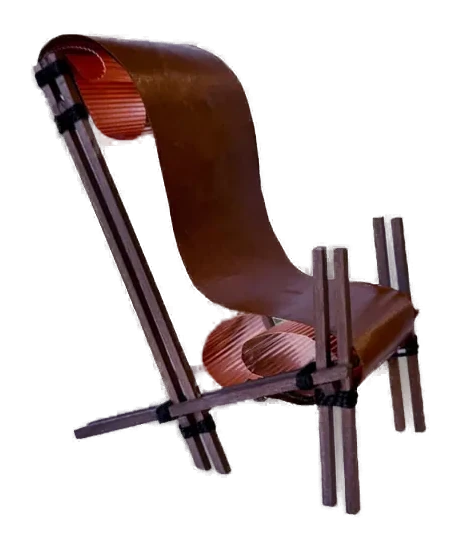
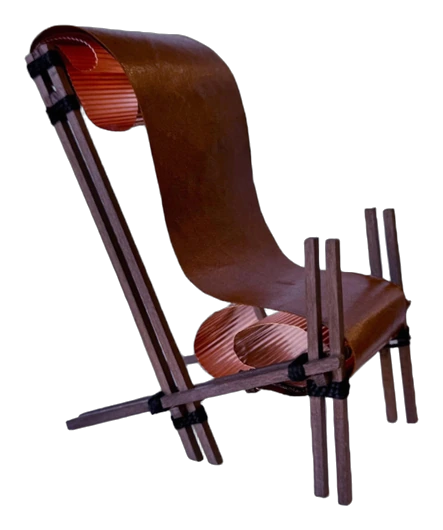
Chaise redétourée proprement, planche des textures détourée et adoucie
Claude-Session: https://claude.ai/code/session_013PfFhaaiQTpQb93kGRB6QJ

diff --git a/l1s2/index.html b/l1s2/index.html
@@ -50,7 +50,7 @@
 	</div>
 	<section class="p-text"><span class="label">Expérimentation</span><div class="body reveal"><p class="lead">Avant le travail architectural, une première expérimentation a été menée autour de la relation entre deux matières à travers la réalisation d’un objet de mobilier : une chaise.</p><p>Ce travail m’a permis d’explorer les notions d’assemblage, de structure et de matérialité. Cette première approche a servi de base au développement du projet architectural.</p></div></section>
 	<div class="gallery">
-		<figure class="c12 showcase reveal"><img src="../assets/img/serre-chaise.webp" alt="La serre habitée — chaise, première expérimentation" width="461" height="548" loading="lazy" decoding="async" data-full="../assets/img/serre-chaise.webp"><figcaption>La chaise — première expérimentation</figcaption></figure>
+		<figure class="c12 showcase reveal"><img src="../assets/img/serre-chaise.webp" alt="La serre habitée — chaise, première expérimentation" width="443" height="530" loading="lazy" decoding="async" data-full="../assets/img/serre-chaise.webp"><figcaption>La chaise — première expérimentation</figcaption></figure>
 	</div>
 	<p class="p-credit">Projet réalisé en première année de licence à l’École Spéciale d’Architecture — 2025.</p>
 </div>

diff --git a/divers/index.html b/divers/index.html
@@ -68,7 +68,7 @@
 			</div>
 		</div>
 		<div class="gallery">
-			<figure class="c12 showcase reveal"><img src="../assets/img/divers-textures.webp" srcset="../assets/img/divers-textures-900.webp 900w, ../assets/img/divers-textures.webp 1445w" sizes="(max-width: 760px) 90vw, 700px" alt="Projets divers — empreintes à l’encre et textures en poterie" width="1445" height="1810" loading="lazy" decoding="async" data-full="../assets/img/divers-textures.webp"><figcaption>Photographie · encre · poterie</figcaption></figure>
+			<figure class="c12 showcase clear reveal"><img src="../assets/img/divers-textures.webp" srcset="../assets/img/divers-textures-900.webp 900w, ../assets/img/divers-textures.webp 1378w" sizes="(max-width: 760px) 90vw, 700px" alt="Projets divers — empreintes à l’encre et textures en poterie" width="1378" height="1742" loading="lazy" decoding="async" data-full="../assets/img/divers-textures.webp"><figcaption>Photographie · encre · poterie</figcaption></figure>
 		</div>
 	</section>
 </div>

diff --git a/assets/style.css b/assets/style.css
@@ -340,3 +340,7 @@ a:hover .more .arrow, .more:hover .arrow { transform: translateX(6px); }
 
 /* flèche de lien externe (dessinée, identique sur ordinateur et téléphone) */
 .ext { display: inline-block; width: .62em; height: .62em; margin-left: .3em; vertical-align: .08em; }
+
+/* planche détourée posée directement sur la page */
+.gallery figure.showcase.clear { background: none; padding-top: clamp(12px, 3vw, 40px); }
+.gallery figure.showcase.clear img { max-height: 82vh; filter: drop-shadow(0 18px 26px rgba(0, 0, 0, .12)); }
